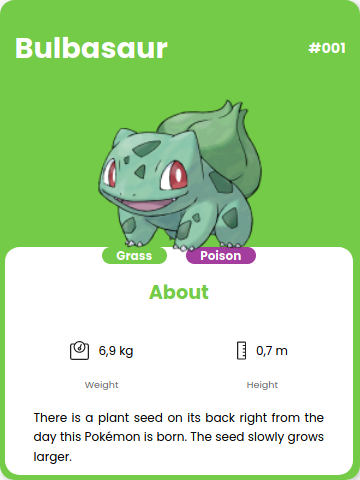
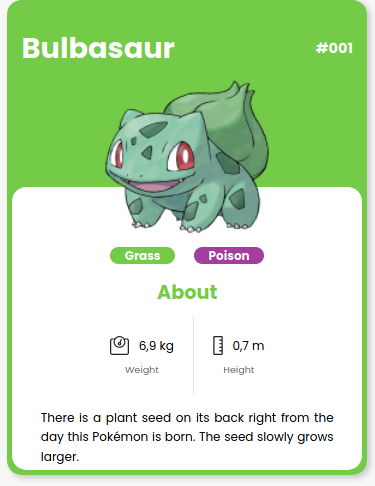
css fixed

diff --git a/src/App.css b/src/App.css
@@ -4,6 +4,18 @@ body {
   background-color: var(--color-background);
 }
 
+@media (max-width: 768px) { /* @mobile, @tablet */
+  body {
+      margin: 0 var(--spacing-base);
+  }
+}
+
+@media (min-width: 769px) { /* @desktop */
+  body {
+      margin: 0 var(--spacing-large);
+  }
+}
+
 .bold {
   font-weight: 700;
   color: white;
@@ -39,18 +51,14 @@ body {
 }
 
 .card__image {
-  min-width: 150px;
-  margin: auto;
-  position: relative;
-  top: var(--spacing-mini);
+  align-self: center; /* flex-direction: column -> align vertical */
   z-index: 1;
 }
 
 .card__content {
-  /* TODO: flex? with position? */
+  margin-top: -50px;
+  padding-top: 50px;
   position: relative; /*FIXME */
-  width:  290px;
-  height: 240px;
   margin-left:   var(--spacing-xtiny);
   margin-right:  var(--spacing-xtiny);
   margin-bottom: var(--spacing-xtiny);
@@ -63,8 +71,6 @@ body {
   justify-content: center;
   margin-bottom: var(--spacing-mini);
 }
-
-/*TODO: can this be extracted as .bg-$type { background-color: var(--color-$type); } ? */
 
 .bg-grass {
     background-color: var(--color-grass);
@@ -92,21 +98,26 @@ body {
 
 .card__measures {
   display: flex;
-  justify-content: space-evenly;
+  justify-content: center;
+  align-items: center;
+  margin-top: var(--spacing-small);
+  margin-bottom: var(--spacing-small);
 }
 
 .card__measure {
   display: flex;
   flex-direction: column;
-  justify-content: space-evenly;
   padding: var(--spacing-mini);
+  border-right: 1px solid var(--color-light-gray);
 }
 
-/*TODO: measure line separator */
+.card__measure:last-child {
+  border-right: none;
+}
 
 .measure__data {
   display: flex;
-  padding: var(--spacing-mini);
+  padding-bottom: var(--spacing-tiny);
 }
 
 .measure__value {

diff --git a/src/vars.css b/src/vars.css
@@ -28,5 +28,5 @@
 
   --color-dark-gray: #212121;
   --color-medium-gray: #666666;
+  --color-light-gray: #e0e0e0;
 }
-
